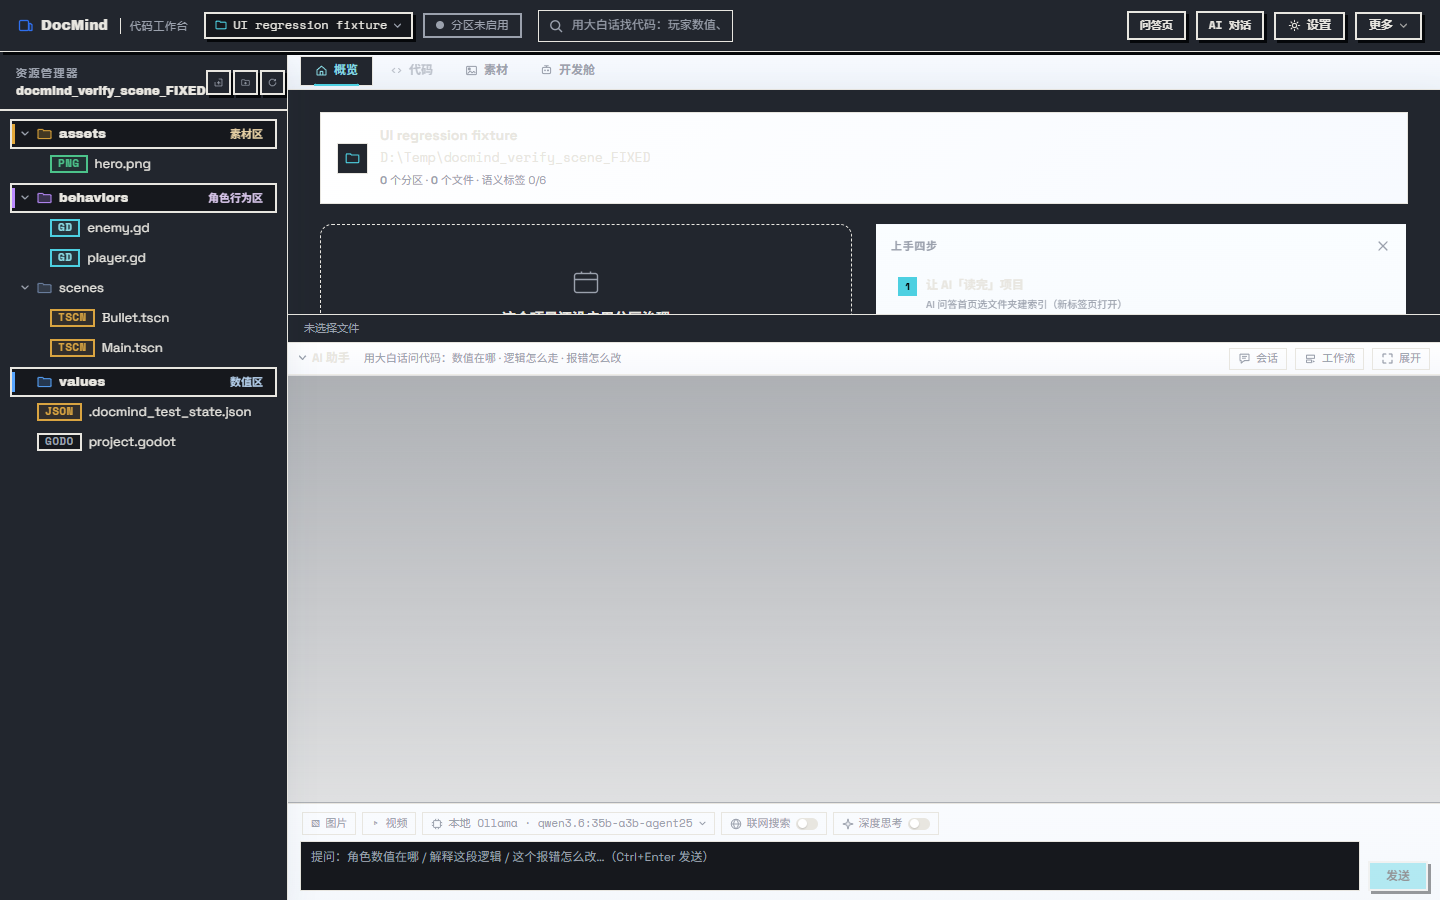
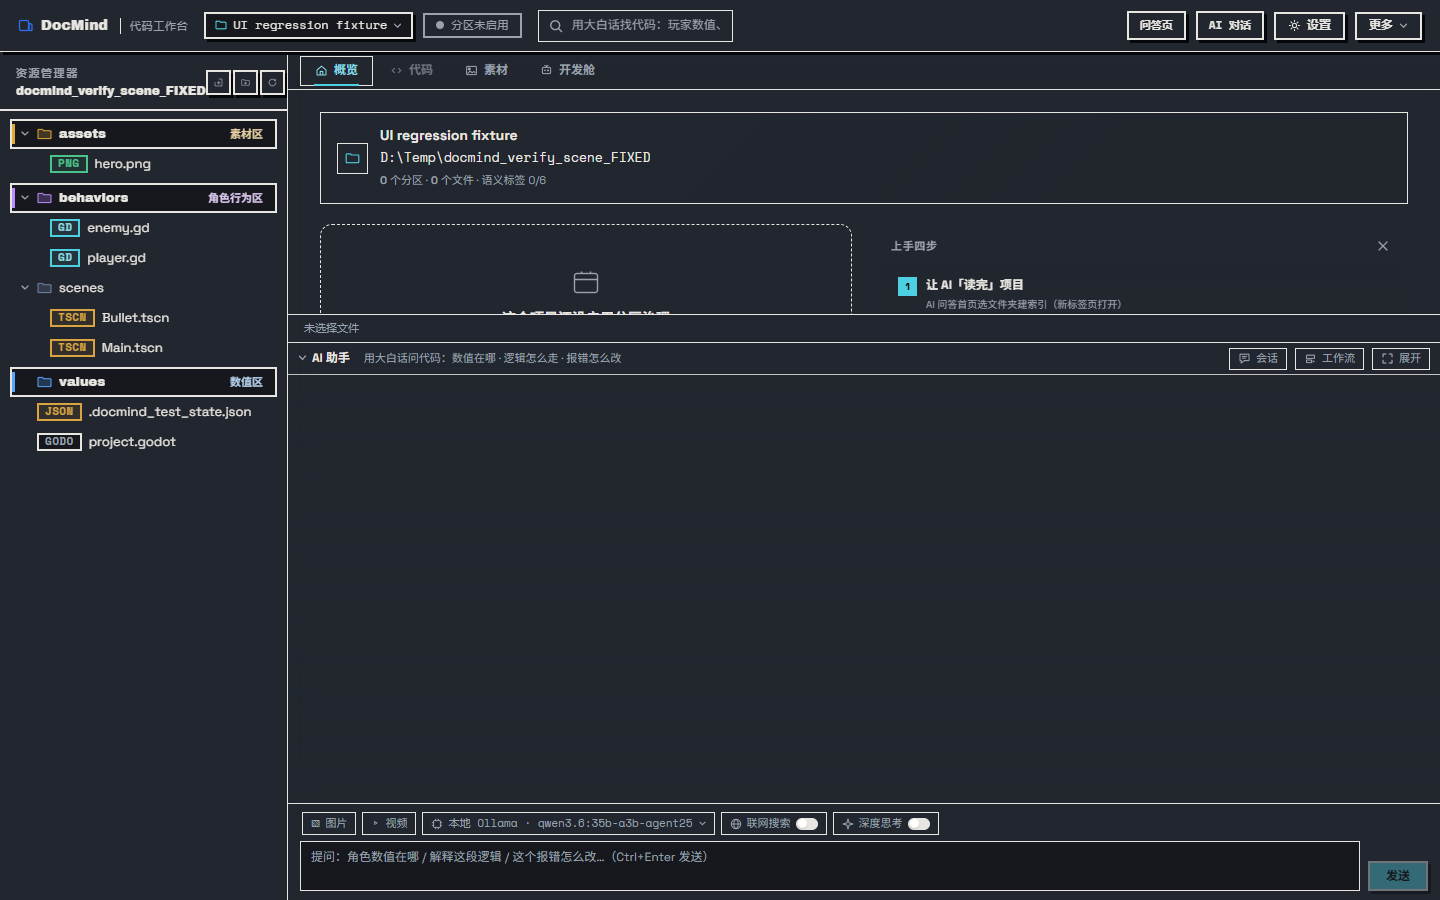
修掉我自己量错的地方：状态棘轮不看 background-image，于是 graphite 主区一片白洗色被记成"0 处不达标"
起因是查"遮罩是不是 backdrop-filter 假象"。结论：不是假象，也不是 glass.css
（夹具的 dataset 里没有 material，glass 整张表是死的）。真相在祖先的
background-image 上 —— ChatDock 四条、OverviewView、WorkspaceTabs、
SceneCanvas、SceneRuntimePanel、AssetGeneratePanel、AutonomousCockpit
各自刷了一条近白色标（rgba(255,255,255,.98) 这种），而棘轮的 bgOf 只累加
backgroundColor → 浅字压白底被算成浅字压深底，报了 14:1 的PASS。
也就是说我之前那句"39 个状态全 0"里，凡是有渐变的表面都是错的账。

- 探针：底改成"逐层收集、由外向内折叠、只保留最亮/最暗两个极端"。
  第一版我写成了由内向外，祖先那块不透明的 --bg 把渐变全盖掉，
  量出来还是一片 0 —— 顺序错一次的门禁比没有门禁更坏，因为它给假阳性背书。
  SVG 文字另外补了"同组 <rect fill>"当候选底：节点卡的底是 SVG 画的，不在 CSS 里。
- 洗色：10 条渐变全部改成从令牌取两个色标
  （linear-gradient(角度, var(--bg-raised), color-mix(--bg-raised 90%, --bg))），
  保留"上亮下暗"的光泽意图，但跟着皮肤走。
  盘点方式改成按"色标接近白"而不是按 180deg —— 按方向猜会漏：
  .ov-strip 是 135deg、.ws-bar 干脆不写角度。
- theme.ts：关系图节点卡底色 14% → 8%（14% 时卡片标签在 paper 上 4.38:1）。

graphite 主区从 59% 像素变化起，等于把"深色皮肤下整块主区是浅灰"这件事
从基线里翻案 —— 三条工作台基线已重钉（--update），paper / zinc 只是
从纯白回到各自 --bg-raised 的暖白 / 冷白，观感不变。

记账如实：38 个状态 0，relation|paper 仍 10 处 4.38:1，且它落在
"最暗候选底"上（点阵网格透过来的颜色），我还没定死那是不是真实底，
所以留着计数而不是顺手清零。回归：棘轮 39 无退步、画布 9、对话展示 37、
令牌对 21、容量 19、像素 5/5、node 56、bundle 7。

diff --git a/frontend/src/workbench/components/ChatDock.vue b/frontend/src/workbench/components/ChatDock.vue
@@ -1934,16 +1934,16 @@ const webTitle = computed(() => webOn.value
 
 /* ---------- 对话区视觉细化 ---------- */
 .cd-dock {
-  background: linear-gradient(180deg, rgba(255,255,255,.98), rgba(248,250,254,.98));
+  background: linear-gradient(180deg, color-mix(in srgb, var(--bg-raised) 98%, transparent), color-mix(in srgb, var(--bg-raised) 90%, transparent));
   box-shadow: 0 -8px 26px rgba(35,52,84,.06);
 }
 .cd-head {
-  background: linear-gradient(180deg, rgba(255,255,255,.96), rgba(247,249,253,.92));
-  border-bottom: 1px solid color-mix(in srgb, var(--border) 82%, white);
+  background: linear-gradient(180deg, color-mix(in srgb, var(--bg-raised) 96%, transparent), color-mix(in srgb, var(--bg-raised) 88%, transparent));
+  border-bottom: 1px solid color-mix(in srgb, var(--border) 82%, var(--bg-raised));
 }
 .cd-body {
   scroll-behavior: smooth;
-  background: linear-gradient(180deg, rgba(248,250,253,.5), rgba(255,255,255,.8));
+  background: linear-gradient(180deg, color-mix(in srgb, var(--bg-raised) 50%, transparent), color-mix(in srgb, var(--bg-raised) 80%, transparent));
 }
 .cd-msg { animation: cd-message-in .22s var(--ease-spring) both; }
 .cd-user-bubble {
@@ -1960,7 +1960,7 @@ const webTitle = computed(() => webOn.value
 .cd-activity-row:hover { background: rgba(47,111,237,.06); transform: translateX(2px); }
 .cd-activity-detail { animation: cd-detail-in .18s var(--ease-spring) both; border-radius: 0 5px 5px 0; }
 .cd-notice { border: 1px solid rgba(152,163,180,.22); background: rgba(244,247,251,.8); }
-.cd-inputbar { background: linear-gradient(180deg, rgba(250,252,255,.88), rgba(245,248,252,.96)); border-top: 1px solid var(--border); }
+.cd-inputbar { background: linear-gradient(180deg, color-mix(in srgb, var(--bg-raised) 88%, transparent), color-mix(in srgb, var(--bg-raised) 96%, transparent)); border-top: 1px solid var(--border); }
 .cd-input { box-shadow: inset 0 1px 2px rgba(35,52,84,.03); transition: border-color .16s, box-shadow .16s, background .16s; }
 .cd-input:focus { background: #fff; box-shadow: 0 0 0 3px rgba(47,111,237,.11), inset 0 1px 2px rgba(35,52,84,.03); }
 .cd-send { box-shadow: 0 4px 11px rgba(47,111,237,.18); transition: transform .16s var(--ease-spring), box-shadow .16s, filter .16s; }

diff --git a/frontend/src/workbench/components/SceneCanvas.vue b/frontend/src/workbench/components/SceneCanvas.vue
@@ -1037,7 +1037,7 @@ defineExpose({ reload, undo, redo, addChildNew })
 .sc-empty { flex: 1; display: flex; flex-direction: column; align-items: center; justify-content: center; gap: 8px; color: var(--text-faint); border: 1px dashed var(--border); border-radius: 8px; }
 .sc-empty small { max-width: 380px; text-align: center; line-height: 1.7; }
 .sc-body { flex: 1; display: flex; min-height: 0; gap: 10px; }
-.sc-canvas { flex: 1; min-width: 0; position: relative; border: 1px solid var(--border); border-radius: 8px; overflow: hidden; background: linear-gradient(180deg, #f7f9fd, #eef2f8); box-shadow: 0 7px 20px rgba(35,52,84,.06); transition: border-color .18s ease, box-shadow .18s ease; }.sc-canvas:focus-within { border-color: #b9d0f5; box-shadow: 0 0 0 3px rgba(47,111,237,.08), 0 7px 20px rgba(35,52,84,.08); }
+.sc-canvas { flex: 1; min-width: 0; position: relative; border: 1px solid var(--border); border-radius: 8px; overflow: hidden; background: linear-gradient(180deg, var(--bg-raised) 0%, color-mix(in srgb, var(--bg-raised) 90%, var(--bg)) 100%); box-shadow: 0 7px 20px rgba(35,52,84,.06); transition: border-color .18s ease, box-shadow .18s ease; }.sc-canvas:focus-within { border-color: #b9d0f5; box-shadow: 0 0 0 3px rgba(47,111,237,.08), 0 7px 20px rgba(35,52,84,.08); }
 .sc-canvas-empty { position: absolute; inset: 0; display: flex; flex-direction: column; align-items: center; justify-content: center; gap: 7px; color: var(--text-muted); background: rgba(247, 249, 253, .92); pointer-events: none; text-align: center; }
 .sc-canvas-empty b { font-size: 12px; font-weight: 600; }
 .sc-canvas-empty small { max-width: 330px; color: var(--text-faint); font-size: 11px; line-height: 1.6; }

diff --git a/frontend/src/workbench/components/OverviewView.vue b/frontend/src/workbench/components/OverviewView.vue
@@ -252,7 +252,7 @@ const ASK_CHIPS = [
   padding: 14px 16px;
   border: 1px solid #dbe4f1;
   border-radius: 13px;
-  background: linear-gradient(135deg, #ffffff 0%, #f7faff 100%);
+  background: linear-gradient(135deg, var(--bg-raised) 0%, color-mix(in srgb, var(--bg-raised) 90%, var(--bg)) 100%);
   box-shadow: 0 5px 18px rgba(35,52,84,.055);
 }
 .ov-folder { color: var(--accent); display: inline-flex; padding: 7px; border-radius: 9px; background: #eaf2ff; }
@@ -346,7 +346,7 @@ button.ov-step:hover, a.ov-step:hover { background: var(--bg-hover); }
   background: rgba(255,255,255,.78);
   box-shadow: 0 4px 16px rgba(35,52,84,.045);
 }
-.ov-guide { border-color: #d5e2f5; background: linear-gradient(180deg, #fafdff, #f5f8fd); }
+.ov-guide { border-color: var(--border-2); background: linear-gradient(180deg, color-mix(in srgb, var(--bg-raised) 100%, transparent), color-mix(in srgb, var(--bg-raised) 90%, transparent)); }
 
 /* 最近打开 */
 .ov-recent { list-style: none; margin: 0; padding: 0; }
@@ -405,7 +405,7 @@ button.ov-step:hover, a.ov-step:hover { background: var(--bg-hover); }
 }
 .ov-empty-btn:hover { background: rgba(47,111,237,.12); }
 .ov-empty-btn:active, .ov-step:active, .ov-recent-item:active, .ov-chip:active { transform: translateY(1px); }
-.ov-noproj { border-style: solid; border-color: #cfe0fb; background: linear-gradient(180deg, #fbfdff, #f6f9fd); }
+.ov-noproj { border-style: solid; border-color: var(--border-2); background: linear-gradient(180deg, var(--bg-raised), color-mix(in srgb, var(--bg-raised) 90%, var(--bg))f9fd); }
 .ov-noproj .ov-empty-ic { color: var(--accent); }
 .ov-noproj-hint {
   margin: 14px auto 0; max-width: 460px;

diff --git a/frontend/src/workbench/components/SceneRuntimePanel.vue b/frontend/src/workbench/components/SceneRuntimePanel.vue
@@ -1122,7 +1122,7 @@ onUnmounted(() => {
 .pb-x { background: none; border: 0; color: var(--text-muted); font-size: 18px; cursor: pointer; border-radius: 5px; padding: 2px 6px; transition: color .16s ease, background .16s ease, transform .16s ease; }
 .pb-x:hover { color: var(--text); background: var(--bg-selected); transform: rotate(90deg); }
 .pb-body { flex: 1; display: flex; min-height: 0; }
-.pb-main { flex: 1; display: flex; flex-direction: column; min-width: 0; min-height: 0; overflow: auto; padding: 10px 12px; gap: 8px; background: linear-gradient(180deg, rgba(246,249,255,.45), transparent 35%); }
+.pb-main { flex: 1; display: flex; flex-direction: column; min-width: 0; min-height: 0; overflow: auto; padding: 10px 12px; gap: 8px; background: linear-gradient(180deg, color-mix(in srgb, var(--bg-raised) 45%, transparent), transparent 35%); }
 .pb-side { width: 320px; border-left: 1px solid var(--border); display: flex; flex-direction: column; min-height: 0; background: linear-gradient(180deg, var(--bg-hover), var(--bg-raised)); }
 .pb-side-head { display: flex; align-items: center; justify-content: space-between; padding: 8px 10px; border-bottom: 1px solid var(--border); font-size: 12px; }
 .pb-side-head > div { display: flex; align-items: center; gap: 8px; }

diff --git a/frontend/src/workbench/theme.ts b/frontend/src/workbench/theme.ts
@@ -117,8 +117,10 @@ const GRAPH_NODE_STYLES: Record<string, GraphNodeStyle> = {
 
 export function graphNodeStyle(kind: string): GraphNodeStyle {
   const s = GRAPH_NODE_STYLES[kind] ?? GRAPH_NODE_STYLES.external
-  // 表里那几个值是"身份"，出口一律派生：描边过 3:1、底板用同色相压 14%。
+  // 表里那几个值是"身份"，出口一律派生：描边过 3:1、底板只压 8% 同色相。
+  // 8% 是量出来的：14% 时卡片标签在 paper 上掉到 4.38:1（底被色相染暗了，字还是中性色），
+  // 8% 既留得住"按类型分组"的那层淡色，又把标签推回 4.5 以上。
   // text 不再回那批调死的浅色（#d6e7ff 在纸底上等于隐形）—— 标签走中性色，
   // 色相由卡片描边和底色承担。
-  return { ...s, stroke: cat(s.stroke), fill: catAlpha(s.stroke, 14), text: 'var(--text)' }
+  return { ...s, stroke: cat(s.stroke), fill: catAlpha(s.stroke, 8), text: 'var(--text)' }
 }

diff --git a/frontend/src/workbench/components/AssetGeneratePanel.vue b/frontend/src/workbench/components/AssetGeneratePanel.vue
@@ -874,7 +874,7 @@ onBeforeUnmount(stopTimer)
   border: 1px solid var(--border); border-radius: 8px; padding: 14px;
   display: flex; flex-direction: column; gap: 10px; background: var(--panel, #fff);
 }
-.ag-card-cloud { border-color: #d8ccf5; background: linear-gradient(180deg, #fcfaff 0%, #fff 60%); }
+.ag-card-cloud { border-color: #d8ccf5; background: linear-gradient(180deg, var(--bg-raised) 0%, color-mix(in srgb, var(--bg-raised) 90%, var(--bg)) 100%); }
 .ag-card-head { display: flex; align-items: baseline; justify-content: space-between; gap: 8px; }
 .ag-card-head h3 { margin: 0; font-size: 14px; }
 .ag-tag { font-size: 10px; color: var(--text-faint); }

diff --git a/frontend/src/workbench/components/AutonomousCockpit.vue b/frontend/src/workbench/components/AutonomousCockpit.vue
@@ -3373,7 +3373,7 @@ button:hover:not(:disabled) { border-color: var(--accent); color: var(--accent);
 .acp {
   background:
     radial-gradient(circle at 16% 0%, rgba(122,90,248,.08), transparent 34%),
-    linear-gradient(135deg, #f2f5fa 0%, #edf1f7 100%);
+    linear-gradient(135deg, var(--bg-raised) 0%, color-mix(in srgb, var(--bg-raised) 90%, var(--bg)) 100%);
   scrollbar-gutter: stable;
 }
 .acp-head { animation: acp-rise .3s var(--ease-spring) both; }

diff --git a/frontend/src/workbench/components/WorkspaceTabs.vue b/frontend/src/workbench/components/WorkspaceTabs.vue
@@ -67,7 +67,7 @@ function pick(key: WorkspaceView) {
   gap: 2px;
   padding: 0 12px;
   height: 38px;
-  background: linear-gradient(180deg, #f8faff 0%, #eef3f9 100%);
+  background: linear-gradient(180deg, var(--bg-raised) 0%, color-mix(in srgb, var(--bg-raised) 90%, var(--bg)) 100%);
   border-bottom: 1px solid var(--border);
   box-shadow: inset 0 1px 0 rgba(255,255,255,.75);
   user-select: none;
